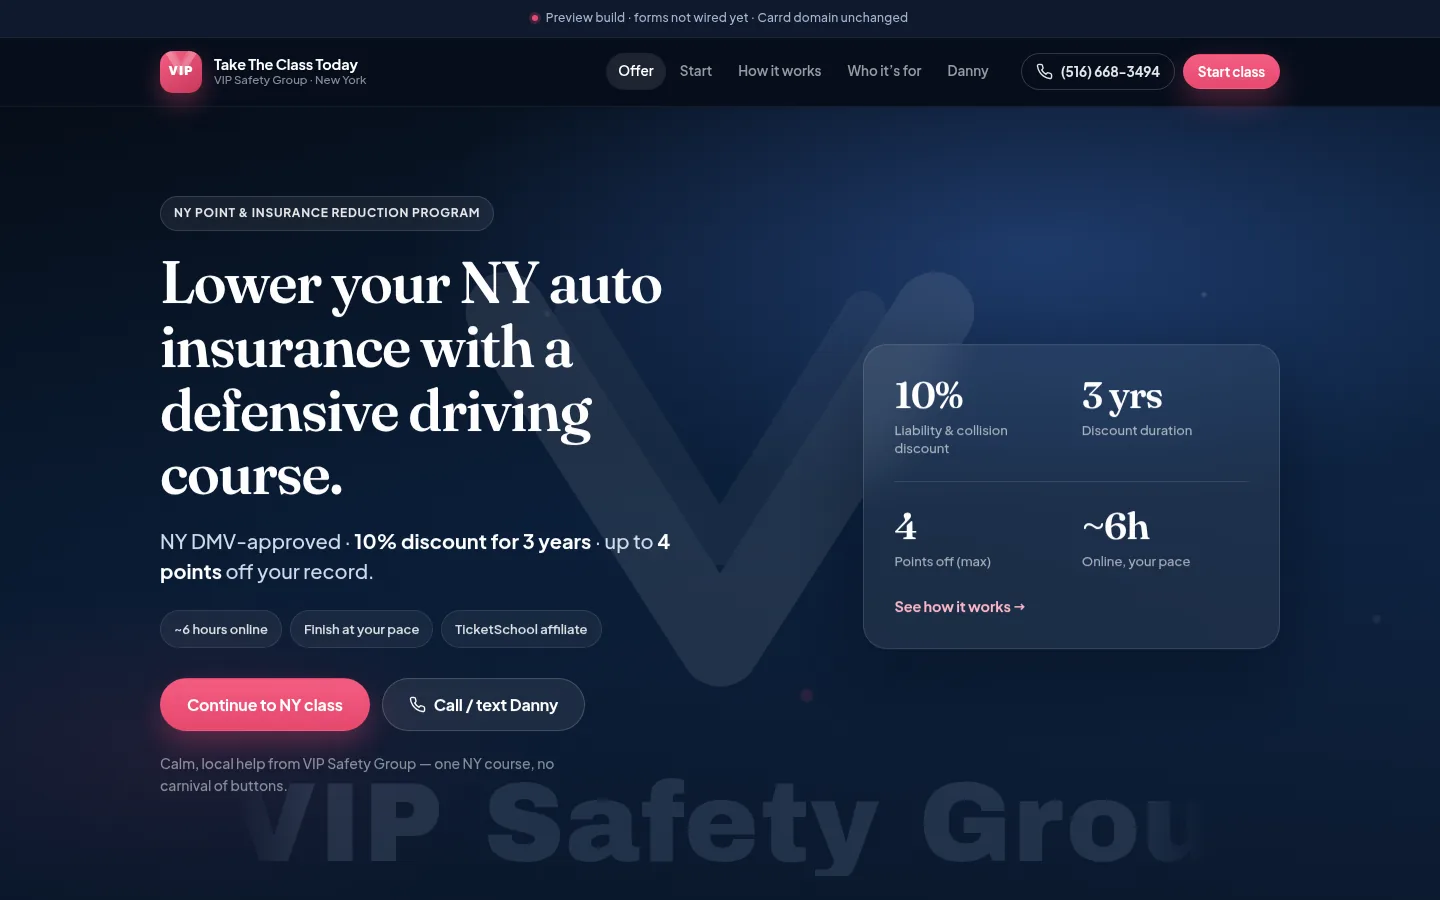
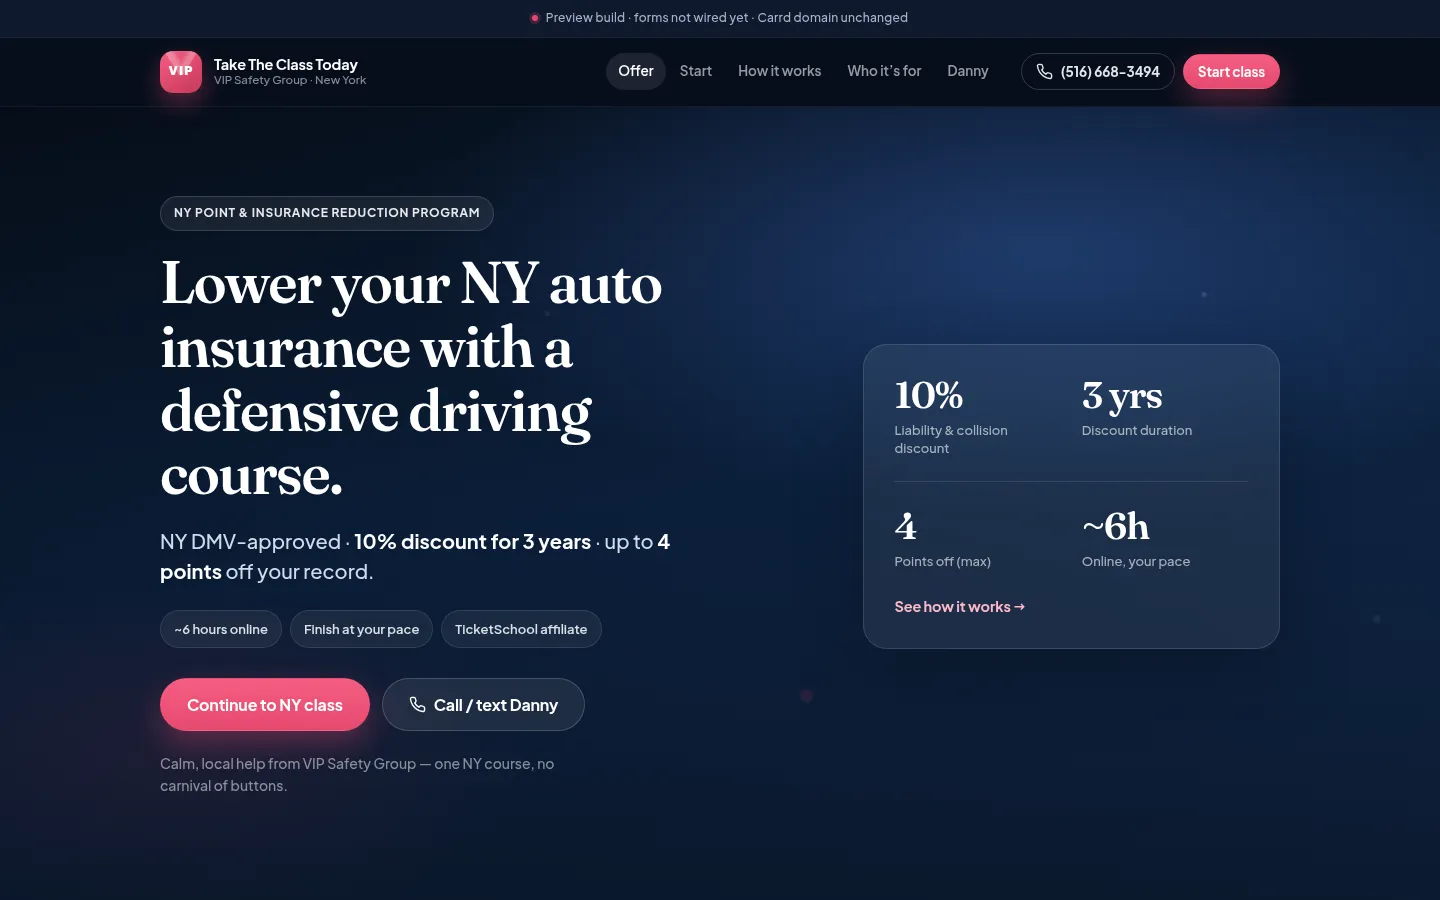
Remove VIP watermark overlays from TTCT preview

diff --git a/styles.css b/styles.css
@@ -1112,139 +1112,6 @@ h1, h2, h3, p { text-wrap: pretty; }
 body.has-sticky-bar { padding-bottom: calc(var(--sticky-bar-h) + env(safe-area-inset-bottom)); }
 
 
-/* —— VIP Safety Group watermark (Carrd-era large faded brand mark) —— */
-.vip-watermark {
-  position: absolute;
-  inset: 0;
-  z-index: 0;
-  pointer-events: none;
-  overflow: hidden;
-  display: grid;
-  place-items: center;
-  user-select: none;
-}
-
-.vip-wm-mark {
-  position: absolute;
-  top: 42%;
-  left: 50%;
-  width: min(62vw, 520px);
-  height: auto;
-  transform: translate(-50%, -52%);
-  opacity: 0.07;
-  /* SVG strokes are white — no filter needed on dark chapters */
-}
-
-.vip-wm-text {
-  position: absolute;
-  left: 50%;
-  bottom: 6%;
-  transform: translateX(-50%);
-  margin: 0;
-  width: min(92%, 980px);
-  text-align: center;
-  font-family: "Archivo Black", var(--sans);
-  font-weight: 400;
-  font-size: clamp(36px, 9.2vw, 104px);
-  line-height: 0.92;
-  letter-spacing: 0.01em;
-  white-space: nowrap;
-  color: rgba(255, 255, 255, 0.1);
-  text-transform: none;
-  /* Soft fade at edges so mobile doesn't clip harshly */
-  -webkit-mask-image: linear-gradient(90deg, transparent 0%, #000 8%, #000 92%, transparent 100%);
-  mask-image: linear-gradient(90deg, transparent 0%, #000 8%, #000 92%, transparent 100%);
-}
-
-.vip-watermark--hero .vip-wm-mark {
-  opacity: 0.09;
-  width: min(68vw, 560px);
-  /* vh keeps the V in the first screen even when the hero section grows tall on mobile */
-  top: min(46vh, 48%);
-}
-.vip-watermark--hero .vip-wm-text {
-  top: min(78vh, calc(100% - 28px));
-  bottom: auto;
-  transform: translate(-50%, -35%);
-  color: rgba(201, 220, 255, 0.12);
-  font-size: clamp(40px, 9.6vw, 112px);
-}
-
-.vip-watermark--danny .vip-wm-mark {
-  top: 38%;
-  opacity: 0.065;
-  width: min(58vw, 460px);
-}
-.vip-watermark--danny .vip-wm-text {
-  bottom: 8%;
-  color: rgba(255, 255, 255, 0.095);
-}
-
-.vip-watermark--fine .vip-wm-text {
-  bottom: 50%;
-  transform: translate(-50%, 50%);
-  color: rgba(255, 255, 255, 0.06);
-  font-size: clamp(32px, 7.5vw, 88px);
-}
-
-.vip-watermark--light .vip-wm-text {
-  bottom: 10%;
-  color: rgba(11, 31, 58, 0.07);
-  font-size: clamp(34px, 8.5vw, 96px);
-}
-.vip-watermark--light .vip-wm-mark {
-  display: none;
-}
-
-/* Keep chapter content above watermarks */
-.hero-stage,
-.chapter-grid,
-.how-layout,
-.danny-stage,
-.fine-wrap,
-.section-head,
-.audience-grid {
-  position: relative;
-  z-index: 1;
-}
-
-@media (max-width: 960px) {
-  .vip-wm-mark {
-    width: min(78vw, 420px);
-    opacity: 0.06;
-  }
-  .vip-wm-text {
-    width: min(96%, 720px);
-    font-size: clamp(28px, 11vw, 64px);
-    bottom: 5%;
-    /* Extra soft side fade on tablet/phone — avoids hard letter clipping */
-    -webkit-mask-image: linear-gradient(90deg, transparent 0%, #000 12%, #000 88%, transparent 100%);
-    mask-image: linear-gradient(90deg, transparent 0%, #000 12%, #000 88%, transparent 100%);
-  }
-  .vip-watermark--hero .vip-wm-text {
-    font-size: clamp(30px, 11.5vw, 68px);
-    top: min(72vh, calc(100% - 20px));
-  }
-}
-
-@media (max-width: 560px) {
-  .vip-wm-text {
-    white-space: nowrap;
-    font-size: clamp(26px, 12.5vw, 44px);
-    letter-spacing: -0.01em;
-    -webkit-mask-image: linear-gradient(90deg, transparent 0%, #000 14%, #000 86%, transparent 100%);
-    mask-image: linear-gradient(90deg, transparent 0%, #000 14%, #000 86%, transparent 100%);
-  }
-  .vip-watermark--hero .vip-wm-mark {
-    width: min(88vw, 360px);
-    opacity: 0.055;
-  }
-}
-
-@media (prefers-reduced-motion: reduce) {
-  .vip-watermark { /* static decorative only */ }
-}
-
 /* —— Responsive —— */
 @media (max-width: 960px) {
   .nav { display: none; }

diff --git a/index.html b/index.html
@@ -67,10 +67,6 @@
         <div class="hero-bokeh"></div>
         <div class="hero-veil"></div>
       </div>
-      <div class="vip-watermark vip-watermark--hero" aria-hidden="true">
-        <img class="vip-wm-mark" src="assets/vip-mark.svg" alt="" width="240" height="200" decoding="async">
-        <p class="vip-wm-text">VIP Safety Group</p>
-      </div>
       <div class="wrap hero-stage">
         <div class="hero-copy reveal">
           <p class="eyebrow">NY Point &amp; Insurance Reduction Program</p>
@@ -119,9 +115,6 @@
 
     <!-- CHAPTER 2: Lead gate -->
     <section class="chapter chapter-light" id="start" data-chapter="start">
-      <div class="vip-watermark vip-watermark--light" aria-hidden="true">
-        <p class="vip-wm-text">VIP Safety Group</p>
-      </div>
       <div class="wrap chapter-grid">
         <div class="chapter-sticky reveal">
           <p class="kicker">Get started</p>
@@ -259,10 +252,6 @@
 
     <!-- CHAPTER 5: Danny -->
     <section class="chapter danny-chapter" id="danny" data-chapter="danny">
-      <div class="vip-watermark vip-watermark--danny" aria-hidden="true">
-        <img class="vip-wm-mark" src="assets/vip-mark.svg" alt="" width="240" height="200" decoding="async">
-        <p class="vip-wm-text">VIP Safety Group</p>
-      </div>
       <div class="wrap danny-stage">
         <div class="danny-card reveal">
           <p class="kicker kicker-light">On-site &amp; by phone</p>
@@ -286,9 +275,6 @@
 
     <!-- CHAPTER 6: Fine print -->
     <section class="chapter chapter-fine" id="fine" data-chapter="fine">
-      <div class="vip-watermark vip-watermark--fine" aria-hidden="true">
-        <p class="vip-wm-text">VIP Safety Group</p>
-      </div>
       <div class="wrap fine-wrap reveal">
         <h2 class="fine-title">Fine print</h2>
         <p>

diff --git a/README.md b/README.md
@@ -2,7 +2,7 @@
 
 **Brand:** VIP Safety Group / Take The Class Today  
 **Status:** On-box HTML/CSS/JS prototype + GitHub Pages preview — **do not flip DNS / Carrd** without Milton  
-**Date:** Wed Sep 30, 2026 (ET) · VIP watermark pass ~6:55 AM ET
+**Date:** Wed Sep 30, 2026 (ET) · visual cleanup pass
 
 ## Preview
 
@@ -28,7 +28,7 @@ Screenshots:
 | `index.html` | Semantic scroll chapters |
 | `styles.css` | Night-blue + coral · Fraunces + Plus Jakarta Sans · sticky chapters |
 | `app.js` | Reveals, nav highlight, how-step scrub, progress bar, mobile sticky CTA |
-| `assets/vip-mark.svg` | Soft V / chevron brand mark for watermark + header |
+| `assets/vip-mark.svg` | VIP / chevron brand mark used in the normal header badge |
 | `README.md` | This file |
 
 ### Scroll chapters
@@ -45,8 +45,7 @@ Screenshots:
 - Palette: night `#070F1C` / `#0B1F3A` → blue wash `#4F86F0` · coral `#E6496F`  
 - Type: **Fraunces** (display) + **Plus Jakarta Sans** (UI)  
 - Motion: restrained fade/slide; scroll progress; how-step highlight; `prefers-reduced-motion`  
-- **VIP Safety Group watermark** — large faded Archivo Black text + soft V mark behind hero / start / Danny / fine (Carrd-era style; soft side-mask so mobile doesn’t hard-clip)  
-- Header VIP badge uses same mark weight + faint V behind “VIP”  
+- Header VIP badge retains the normal VIP mark and “VIP Safety Group” copy
 - Forms look real but are not wired; TicketSchool + Danny CTAs are live links  
 - No invented reviews, prices, or licenses  
 
